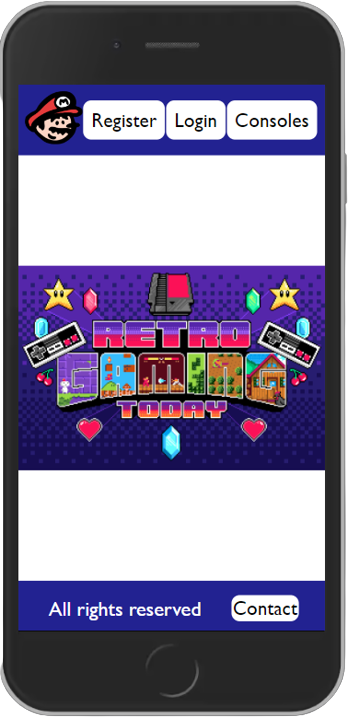
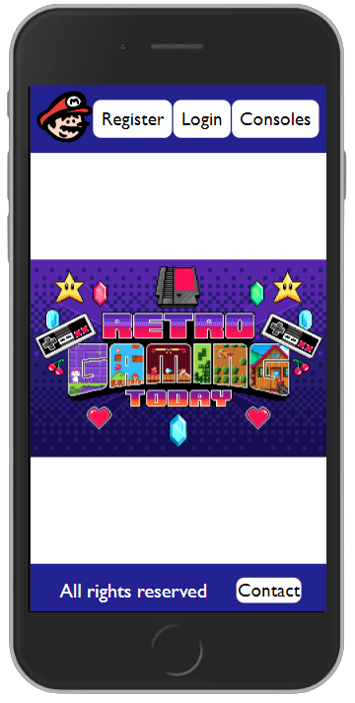
finish portfolio pending navegation

diff --git a/src/infrastructure/components/carousel/carousel.tsx b/src/infrastructure/components/carousel/carousel.tsx
@@ -26,7 +26,7 @@ export const Carousel = () => {
                             >
                                 <img
                                     className={`d-block  img-fluid ${style.carouselImgPhone} `}
-                                    src="../../../assets/retro-gaming-Phone.png"
+                                    src="../../../assets/meeseks-Phone-2.png"
                                     alt=""
                                 />
                             </div>
@@ -36,7 +36,7 @@ export const Carousel = () => {
                             >
                                 <img
                                     className={`d-block  img-fluid ${style.carouselImgPhone} `}
-                                    src="../../../assets/meeseks-Phone.png"
+                                    src="../../../assets/retro-gaming-phone.png"
                                     alt=""
                                 />
                             </div>
@@ -46,7 +46,7 @@ export const Carousel = () => {
                             >
                                 <img
                                     className={`d-block  img-fluid ${style.carouselImgPhone} `}
-                                    src="../../../assets/meeseks-Phone.png"
+                                    src="../../../assets/retro-gaming-phone2.png"
                                     alt=""
                                 />
                             </div>

diff --git a/src/infrastructure/components/projects/projects.tsx b/src/infrastructure/components/projects/projects.tsx
@@ -16,12 +16,12 @@ export const Project = () => {
                         <div className="d-flex justify-content-center mb-5">
                             <img
                                 className={` ${style.currentlyImg} me-2`}
-                                src="../../../assets/meeseks-Phone.png"
+                                src="../../../assets/retro-gaming-phone.png"
                                 alt=""
                             />
                             <img
                                 className={` ms-2 d-none d-md-block ${style.currentlyImg}`}
-                                src="../../../assets/meeseks-Phone.png"
+                                src="../../../assets/retro-gaming-phone3.png"
                                 alt=""
                             />
                         </div>

diff --git a/src/infrastructure/components/contact/contact.tsx b/src/infrastructure/components/contact/contact.tsx
@@ -7,8 +7,9 @@ export const Contact = () => {
             {' '}
             <h2 className={`col my-5 ${style.letTalk}`}>Let's talk!</h2>
             <p className={` col text-center ${style.contactoParrafo}`}>
-                I’m always looking for new oportunities. Whether you want to say
-                hi or have a question. My inbox is always open.
+                I’m always looking for new <strong>oportunities.</strong>{' '}
+                Whether you want to say hi or have a question. My inbox is
+                always open.
             </p>
             <button
                 className={`btn btn-primary my-5 col-12 w-25 ${style.buttonContact}`}
